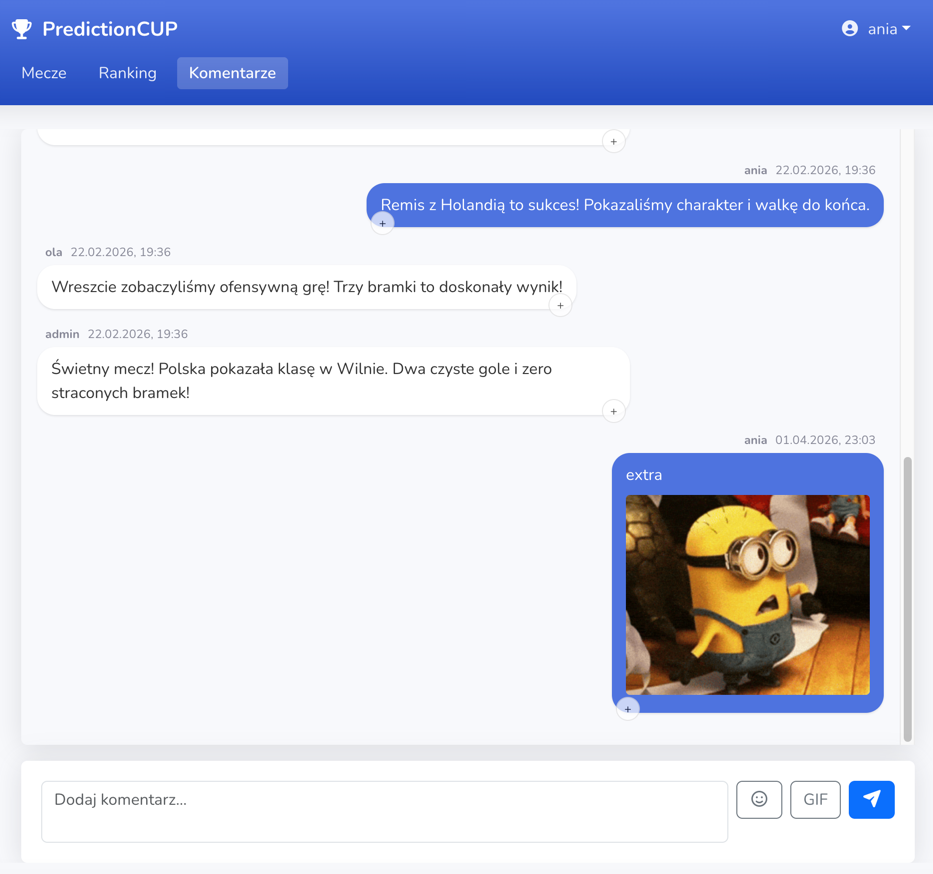
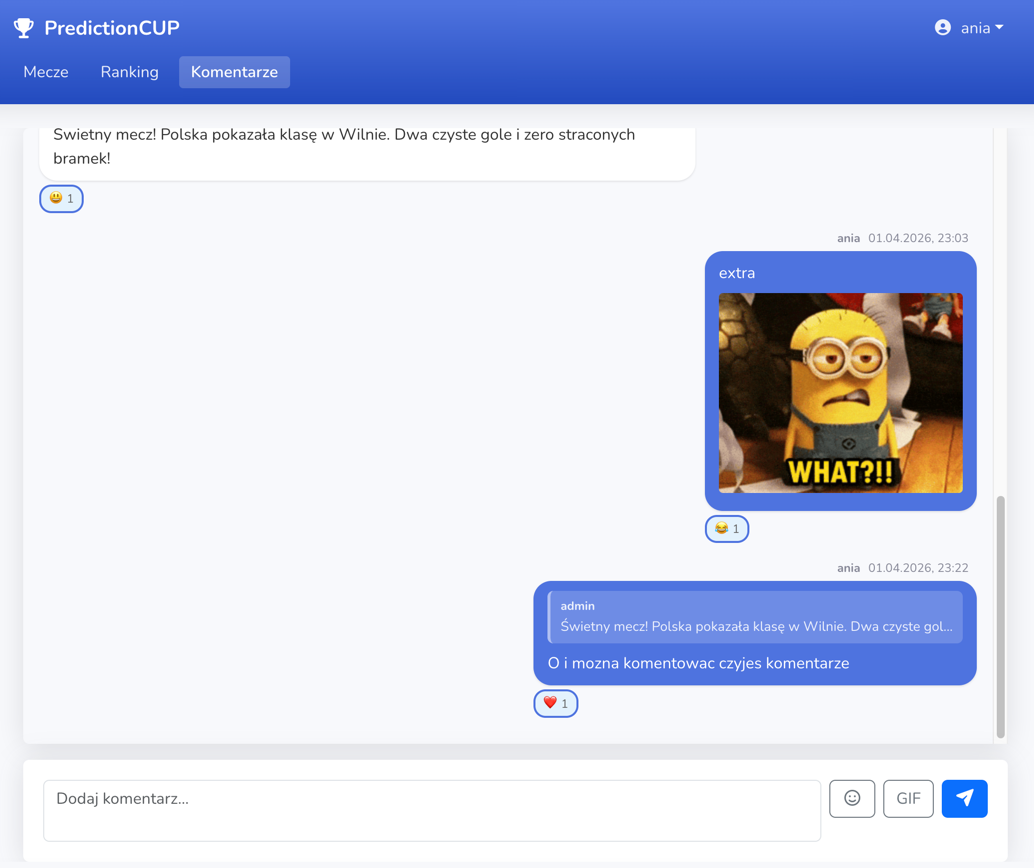
comments:

diff --git a/src/components/Comments.jsx b/src/components/Comments.jsx
@@ -14,16 +14,19 @@ function Comments() {
   const [showEmojiPicker, setShowEmojiPicker] = useState(false);
   const [showGifPicker, setShowGifPicker] = useState(false);
   const [showReactionPicker, setShowReactionPicker] = useState(null);
+  const [showMoreReactionsPicker, setShowMoreReactionsPicker] = useState(null);
+  const [replyingTo, setReplyingTo] = useState(null);
   const [gifs, setGifs] = useState([]);
   const [gifSearchTerm, setGifSearchTerm] = useState('');
   const textareaRef = useRef(null);
   const emojiPickerRef = useRef(null);
   const gifPickerRef = useRef(null);
   const reactionPickerRef = useRef(null);
+  const moreReactionsPickerRef = useRef(null);
   const messagesEndRef = useRef(null);
 
   const GIPHY_API_KEY = 'sXpGFDGZs0Dv1mmNFvYaGUvYwKX0PWIh'; // Public demo key
-  const QUICK_REACTIONS = ['👍', '❤', '😂', '😮', '😢', '🙏'];
+  const QUICK_REACTIONS = ['👍', '❤', '😂', '😮', '😢'];
 
   useEffect(() => {
     loadComments();
@@ -40,16 +43,19 @@ function Comments() {
       if (reactionPickerRef.current && !reactionPickerRef.current.contains(event.target)) {
         setShowReactionPicker(null);
       }
+      if (moreReactionsPickerRef.current && !moreReactionsPickerRef.current.contains(event.target)) {
+        setShowMoreReactionsPicker(null);
+      }
     };
 
-    if (showEmojiPicker || showGifPicker || showReactionPicker !== null) {
+    if (showEmojiPicker || showGifPicker || showReactionPicker !== null || showMoreReactionsPicker !== null) {
       document.addEventListener('mousedown', handleClickOutside);
     }
 
     return () => {
       document.removeEventListener('mousedown', handleClickOutside);
     };
-  }, [showEmojiPicker, showGifPicker, showReactionPicker]);
+  }, [showEmojiPicker, showGifPicker, showReactionPicker, showMoreReactionsPicker]);
 
   useEffect(() => {
     if (showGifPicker) {
@@ -169,9 +175,14 @@ function Comments() {
       const sortedComments = response.data.reverse();
       setComments(sortedComments);
       setShowReactionPicker(null);
+      setShowMoreReactionsPicker(null);
     } catch (err) {
       console.error('Error updating reaction:', err);
     }
+  };
+
+  const handleMoreReactionEmojiClick = async (emojiObject, commentId) => {
+    await handleReactionClick(commentId, emojiObject.emoji);
   };
 
   const groupReactions = (reactions) => {
@@ -201,8 +212,13 @@ function Comments() {
 
     try {
       setSubmitting(true);
-      await commentApi.createComment({ text: newCommentText });
+      const commentData = {
+        text: newCommentText,
+        parentCommentId: replyingTo?.id || null
+      };
+      await commentApi.createComment(commentData);
       setNewCommentText('');
+      setReplyingTo(null);
       if (textareaRef.current) {
         textareaRef.current.style.height = 'auto';
       }
@@ -306,7 +322,16 @@ function Comments() {
                     </div>
 
                     {/* Message bubble */}
-                    <div style={{ position: 'relative', maxWidth: '70%' }}>
+                    <div
+                      style={{ position: 'relative', maxWidth: '70%' }}
+                      onMouseEnter={() => setShowReactionPicker(comment.id)}
+                      onMouseLeave={() => {
+                        if (showMoreReactionsPicker !== comment.id) {
+                          setShowReactionPicker(null);
+                        }
+                      }}
+                      onClick={() => setShowReactionPicker(comment.id)}
+                    >
                       <div
                         style={{
                           backgroundColor: isMyComment ? '#4e73df' : 'white',
@@ -318,6 +343,29 @@ function Comments() {
                           position: 'relative'
                         }}
                       >
+                        {/* Quoted message */}
+                        {comment.parentCommentId && (
+                          <div
+                            style={{
+                              backgroundColor: isMyComment ? 'rgba(255,255,255,0.2)' : 'rgba(0,0,0,0.05)',
+                              borderLeft: `3px solid ${isMyComment ? 'rgba(255,255,255,0.5)' : '#4e73df'}`,
+                              padding: '6px 10px',
+                              marginBottom: '8px',
+                              borderRadius: '6px',
+                              fontSize: '0.85rem',
+                              opacity: 0.9
+                            }}
+                          >
+                            <div style={{ fontWeight: 'bold', marginBottom: '2px', fontSize: '0.75rem' }}>
+                              {comment.parentCommentUsername}
+                            </div>
+                            <div style={{ overflow: 'hidden', textOverflow: 'ellipsis', whiteSpace: 'nowrap' }}>
+                              {comment.parentCommentText && comment.parentCommentText.length > 60
+                                ? comment.parentCommentText.substring(0, 60) + '...'
+                                : comment.parentCommentText}
+                            </div>
+                          </div>
+                        )}
                         {renderCommentText(comment.text)}
                       </div>
 
@@ -358,42 +406,15 @@ function Comments() {
                         </div>
                       )}
 
-                      {/* Add reaction button */}
-                      <button
-                        onClick={() => setShowReactionPicker(showReactionPicker === comment.id ? null : comment.id)}
-                        style={{
-                          position: 'absolute',
-                          bottom: '-8px',
-                          right: isMyComment ? 'auto' : '4px',
-                          left: isMyComment ? '4px' : 'auto',
-                          backgroundColor: 'white',
-                          border: '1px solid #ddd',
-                          borderRadius: '50%',
-                          width: '24px',
-                          height: '24px',
-                          display: 'flex',
-                          alignItems: 'center',
-                          justifyContent: 'center',
-                          cursor: 'pointer',
-                          fontSize: '0.75rem',
-                          opacity: 0.7,
-                          transition: 'opacity 0.2s'
-                        }}
-                        onMouseEnter={(e) => e.target.style.opacity = '1'}
-                        onMouseLeave={(e) => e.target.style.opacity = '0.7'}
-                      >
-                        +
-                      </button>
-
                       {/* Reaction picker popup */}
                       {showReactionPicker === comment.id && (
                         <div
                           ref={reactionPickerRef}
                           style={{
                             position: 'absolute',
-                            bottom: '30px',
-                            left: isMyComment ? '4px' : 'auto',
-                            right: isMyComment ? 'auto' : '4px',
+                            top: '-50px',
+                            left: isMyComment ? 'auto' : '0',
+                            right: isMyComment ? '0' : 'auto',
                             backgroundColor: 'white',
                             border: '1px solid #ddd',
                             borderRadius: '24px',
@@ -402,6 +423,12 @@ function Comments() {
                             display: 'flex',
                             gap: '8px',
                             zIndex: 100
+                          }}
+                          onMouseEnter={() => setShowReactionPicker(comment.id)}
+                          onMouseLeave={() => {
+                            if (showMoreReactionsPicker !== comment.id) {
+                              setShowReactionPicker(null);
+                            }
                           }}
                         >
                           {QUICK_REACTIONS.map(emoji => (
@@ -422,6 +449,70 @@ function Comments() {
                               {emoji}
                             </button>
                           ))}
+                          {/* Reply button */}
+                          <button
+                            onClick={(e) => {
+                              e.stopPropagation();
+                              setReplyingTo(comment);
+                              setShowReactionPicker(null);
+                              textareaRef.current?.focus();
+                            }}
+                            style={{
+                              backgroundColor: 'transparent',
+                              border: 'none',
+                              fontSize: '1.2rem',
+                              cursor: 'pointer',
+                              padding: '4px',
+                              transition: 'transform 0.2s',
+                              color: '#858796'
+                            }}
+                            onMouseEnter={(e) => e.target.style.transform = 'scale(1.3)'}
+                            onMouseLeave={(e) => e.target.style.transform = 'scale(1)'}
+                            title="Odpowiedz"
+                          >
+                            ↩
+                          </button>
+                          {/* More reactions button */}
+                          <button
+                            onClick={(e) => {
+                              e.stopPropagation();
+                              setShowMoreReactionsPicker(comment.id);
+                              setShowReactionPicker(null);
+                            }}
+                            style={{
+                              backgroundColor: 'transparent',
+                              border: 'none',
+                              fontSize: '1.5rem',
+                              cursor: 'pointer',
+                              padding: '4px',
+                              transition: 'transform 0.2s',
+                              color: '#858796'
+                            }}
+                            onMouseEnter={(e) => e.target.style.transform = 'scale(1.3)'}
+                            onMouseLeave={(e) => e.target.style.transform = 'scale(1)'}
+                          >
+                            ➕
+                          </button>
+                        </div>
+                      )}
+
+                      {/* More reactions emoji picker */}
+                      {showMoreReactionsPicker === comment.id && (
+                        <div
+                          ref={moreReactionsPickerRef}
+                          style={{
+                            position: 'absolute',
+                            bottom: '30px',
+                            left: isMyComment ? '4px' : 'auto',
+                            right: isMyComment ? 'auto' : '4px',
+                            zIndex: 101
+                          }}
+                        >
+                          <EmojiPicker
+                            onEmojiClick={(emojiObject) => handleMoreReactionEmojiClick(emojiObject, comment.id)}
+                            width={300}
+                            height={400}
+                          />
                         </div>
                       )}
                     </div>
@@ -442,6 +533,43 @@ function Comments() {
       {/* Formularz dodawania komentarza - bez scrolla */}
       <Card className="shadow" style={{ flexShrink: 0 }}>
         <Card.Body style={{ position: 'relative' }}>
+          {/* Reply preview */}
+          {replyingTo && (
+            <div
+              style={{
+                backgroundColor: '#f0f0f0',
+                borderLeft: '3px solid #4e73df',
+                padding: '8px 12px',
+                marginBottom: '10px',
+                borderRadius: '4px',
+                display: 'flex',
+                justifyContent: 'space-between',
+                alignItems: 'center'
+              }}
+            >
+              <div>
+                <div style={{ fontSize: '0.75rem', color: '#666', marginBottom: '2px' }}>
+                  Odpowiadasz na <strong>{replyingTo.username}</strong>
+                </div>
+                <div style={{ fontSize: '0.85rem', color: '#333', overflow: 'hidden', textOverflow: 'ellipsis', whiteSpace: 'nowrap', maxWidth: '400px' }}>
+                  {replyingTo.text.length > 50 ? replyingTo.text.substring(0, 50) + '...' : replyingTo.text}
+                </div>
+              </div>
+              <button
+                type="button"
+                onClick={() => setReplyingTo(null)}
+                style={{
+                  backgroundColor: 'transparent',
+                  border: 'none',
+                  fontSize: '1.2rem',
+                  cursor: 'pointer',
+                  color: '#858796'
+                }}
+              >
+                ✕
+              </button>
+            </div>
+          )}
           <Form onSubmit={handleSubmit}>
             <div className="d-flex align-items-start gap-2">
               <Form.Control
